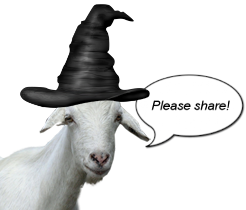
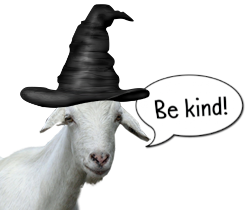
updated images

Changed region(s): [[0.5976, 0.4571, 0.939, 0.5714]]

diff --git a/index.html b/index.html
@@ -626,7 +626,7 @@
 <body>
     <div class="container">
         <div class="splash-screen" id="splashScreen">
-            <h1>🐐 Random Goat...</h1>
+            <h1>🐐 Loading Goats...</h1>
             <div class="loading-spinner"></div>
         </div>
 
